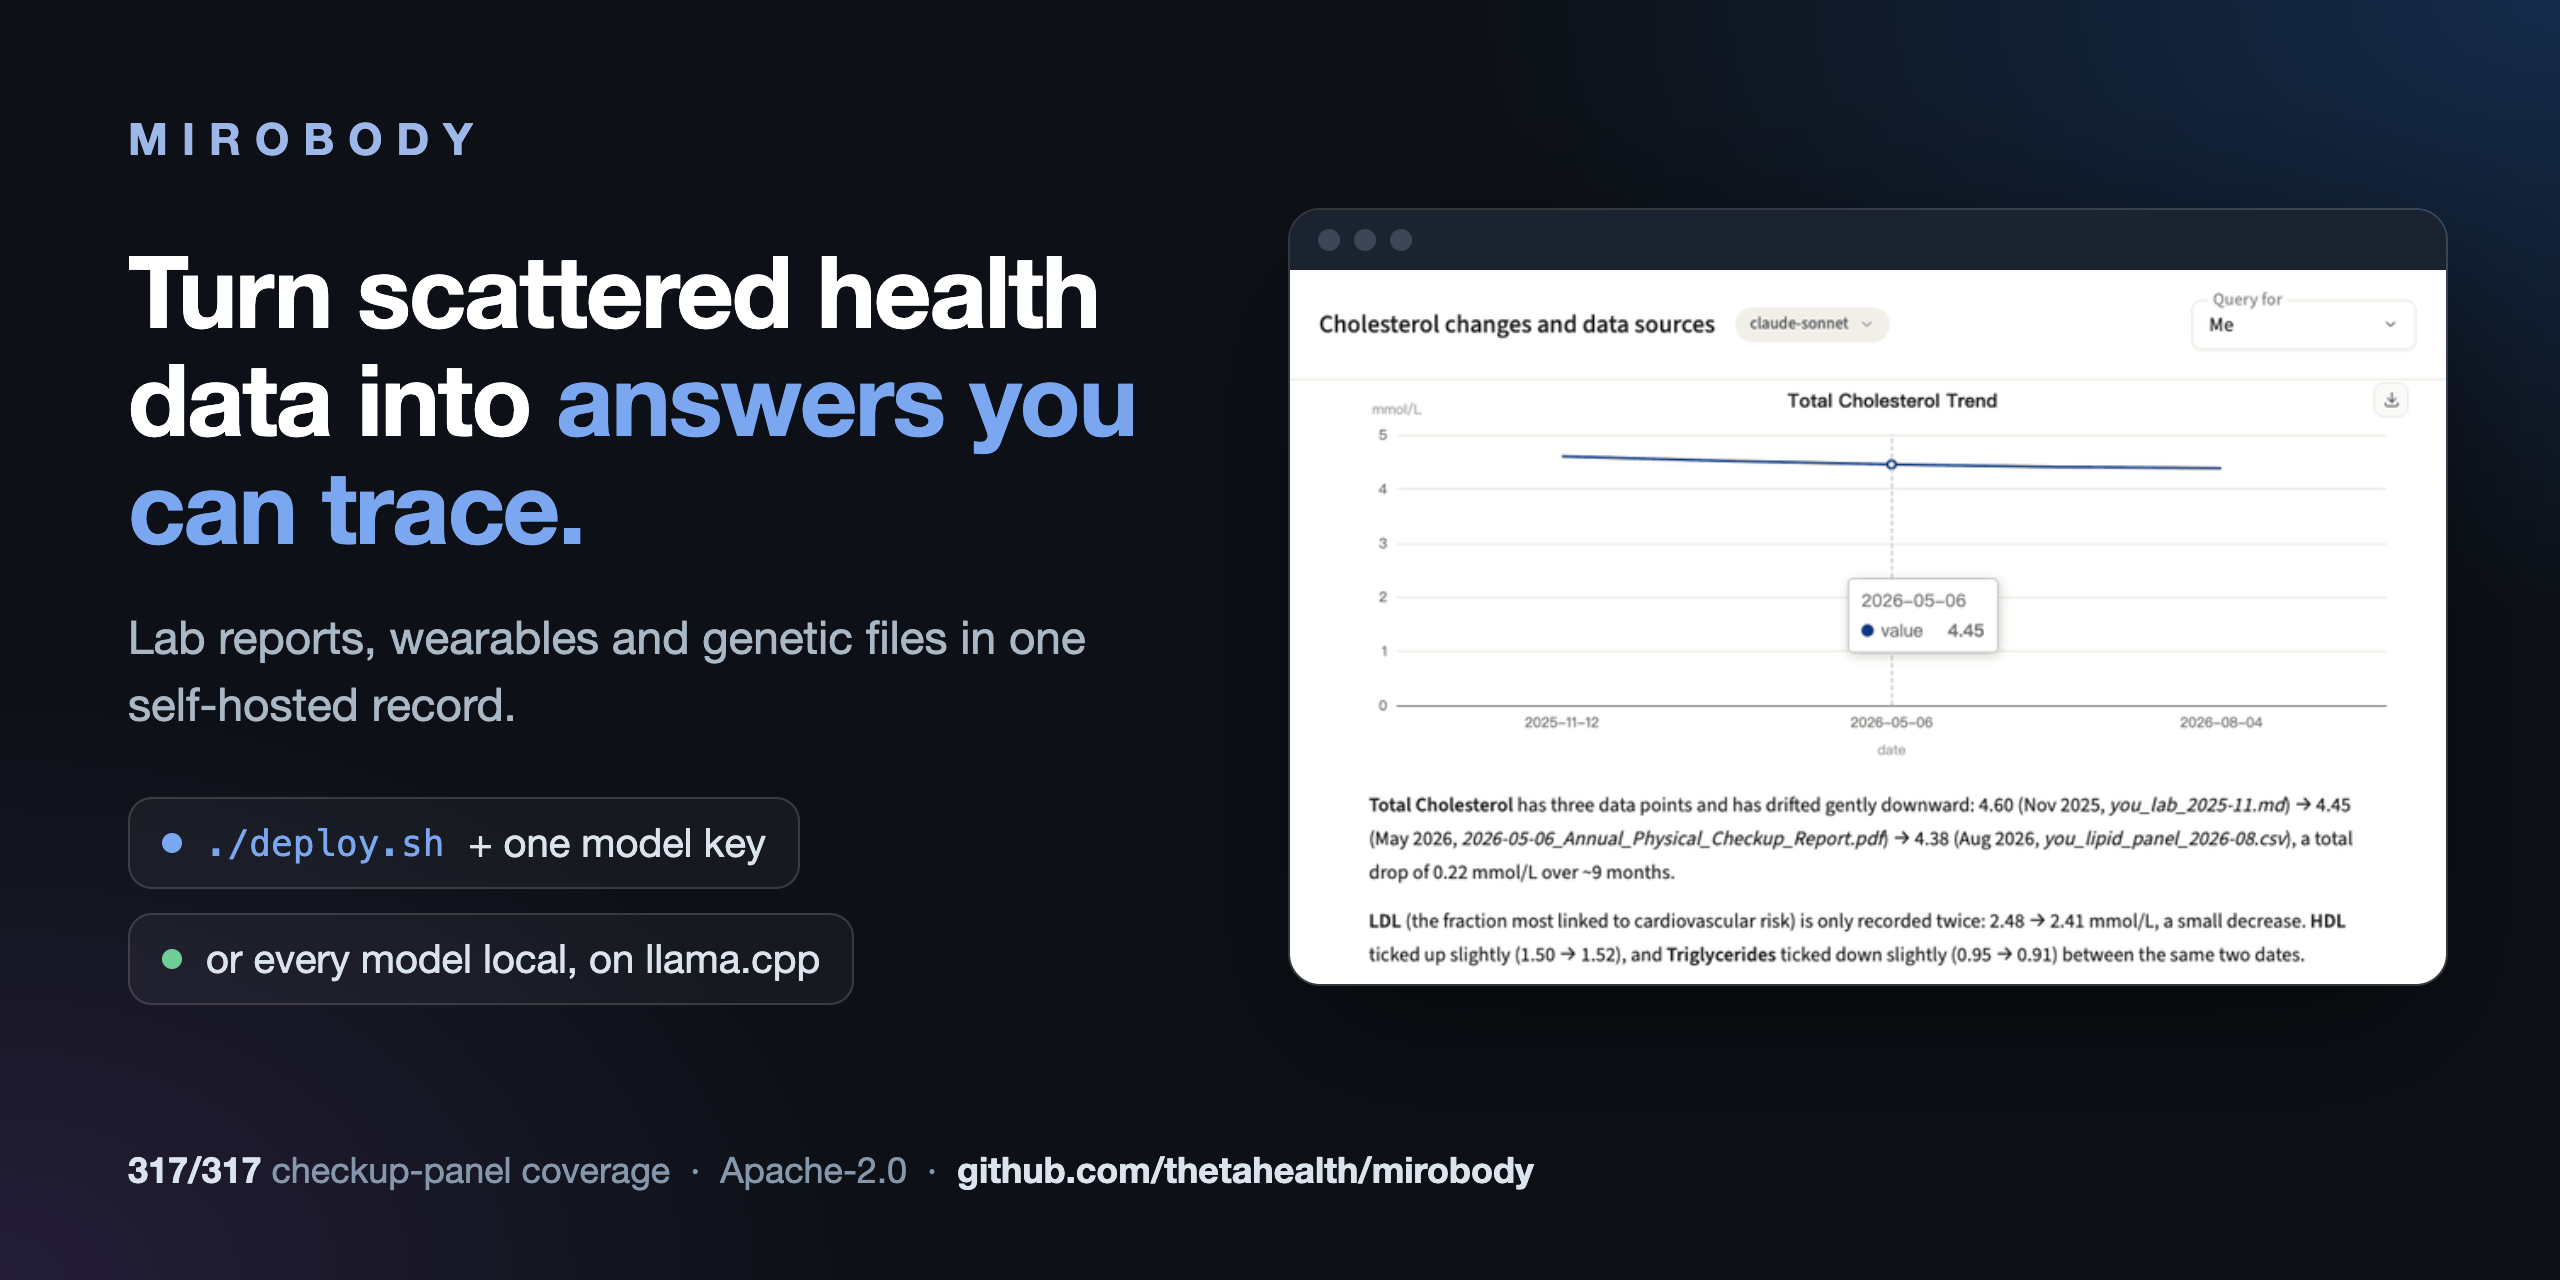
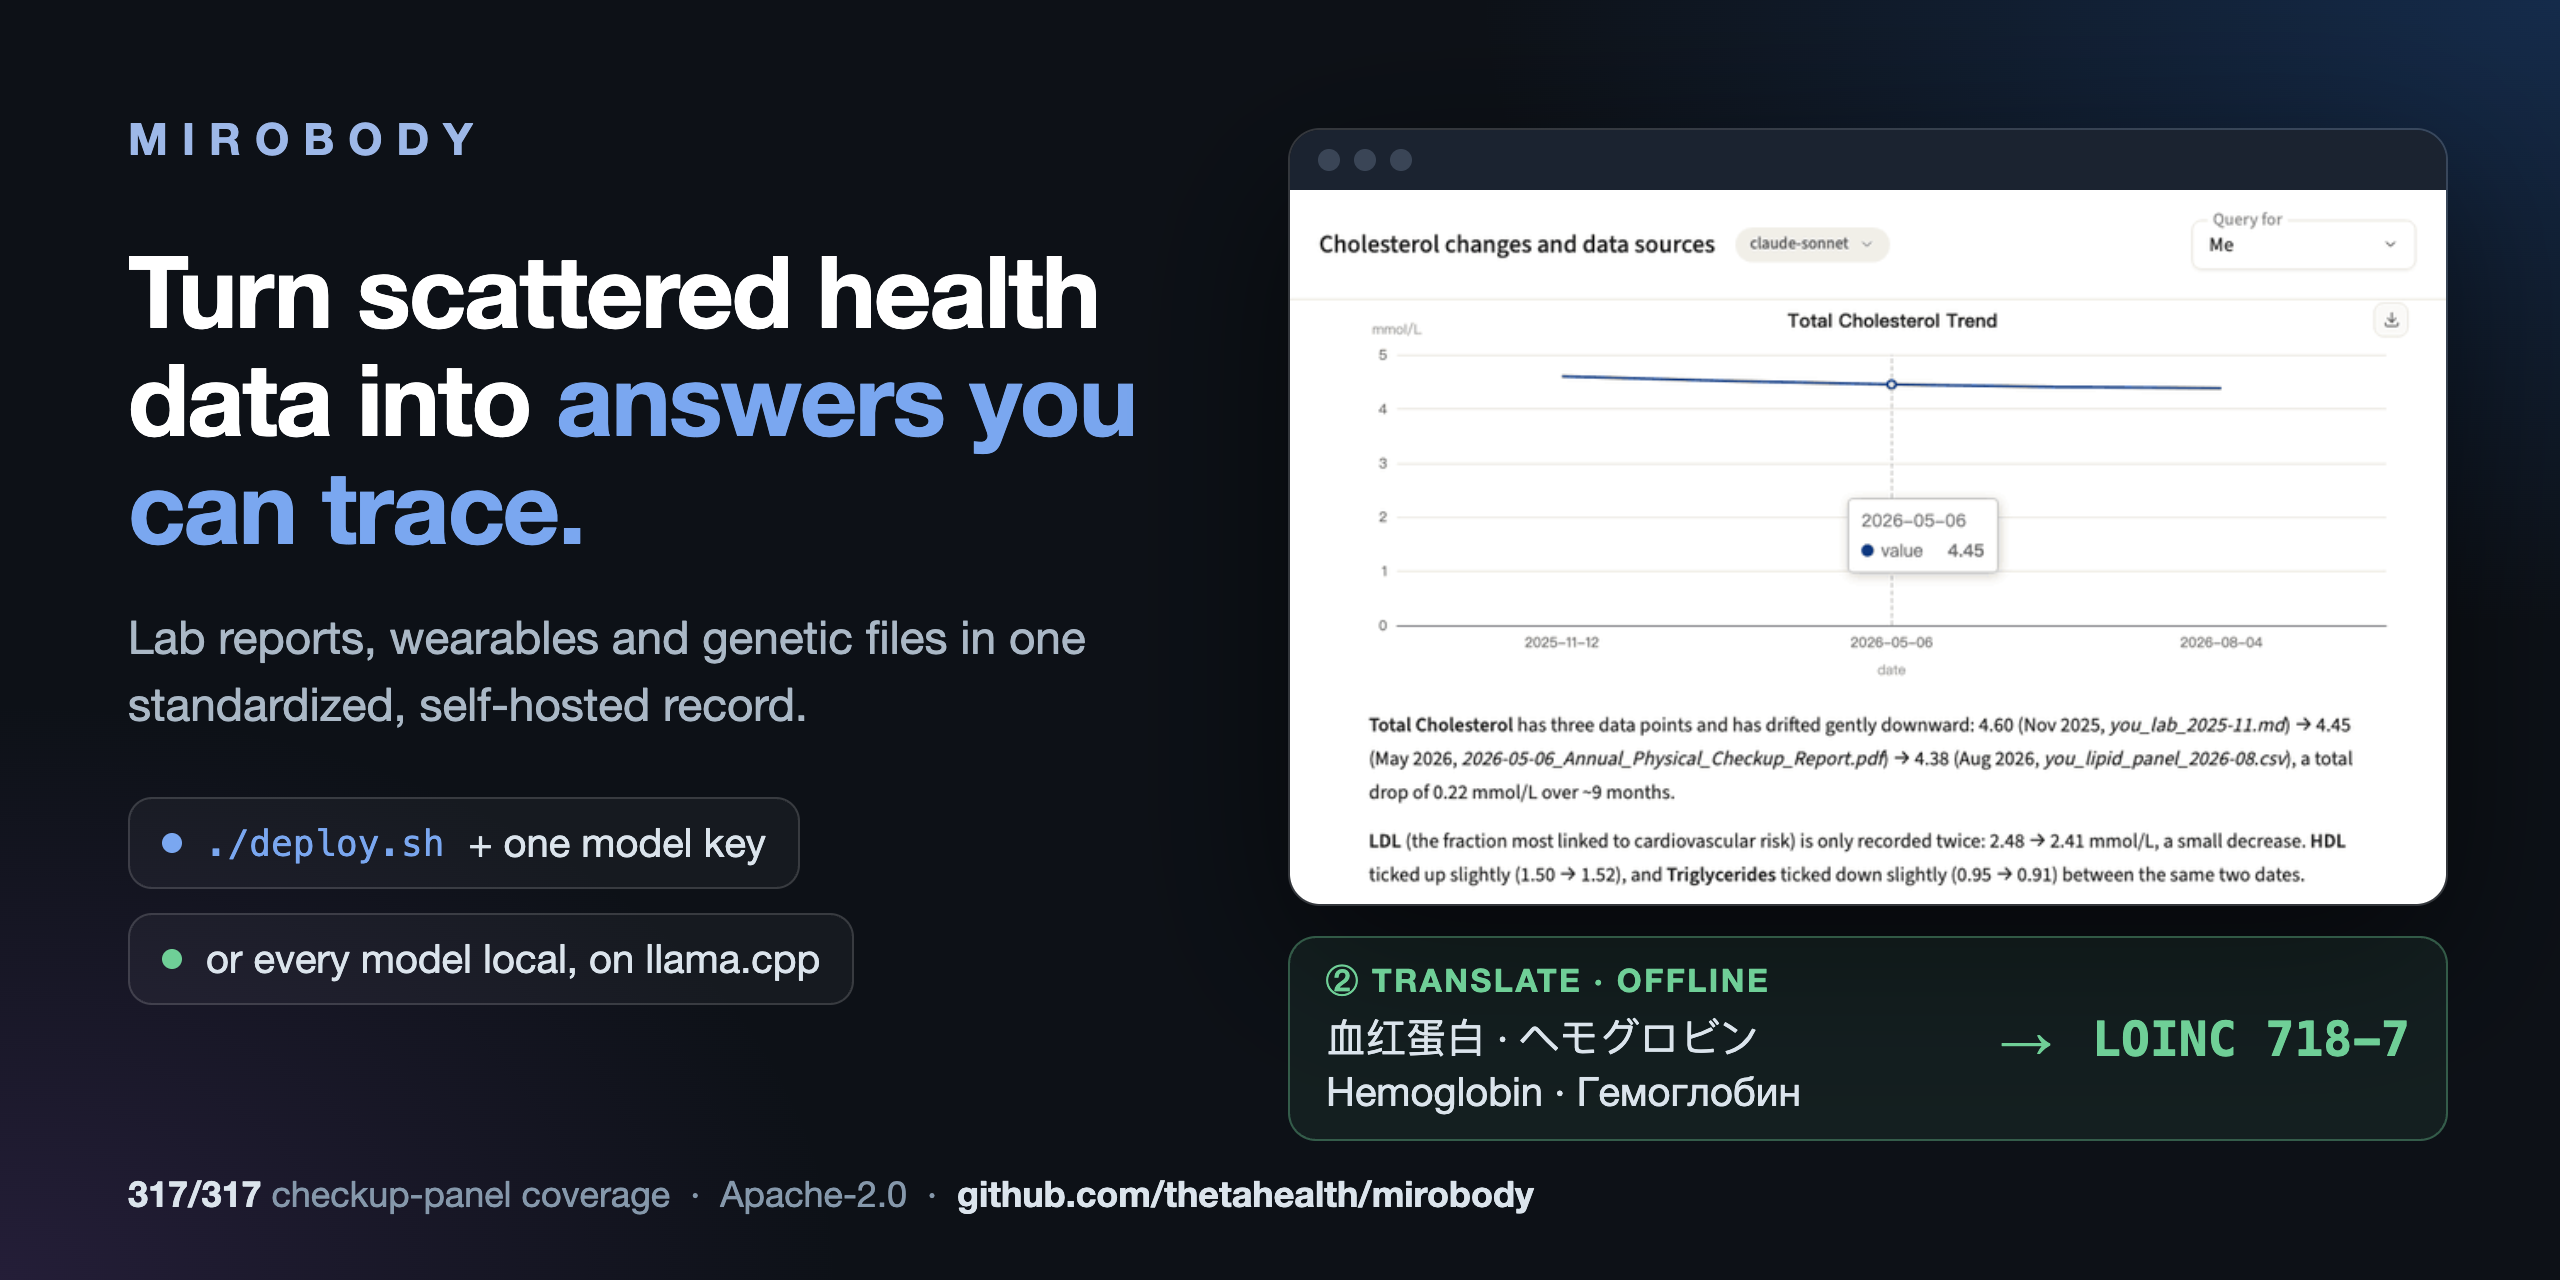
docs: the social card shows ② Translate
The card said where the record lives but not what makes it comparable.
The subline now says standardized, and a strip under the screenshot
shows four spellings (zh, ja, en, ru) that all resolve to LOINC 718-7.

diff --git a/docs/images/social-preview.html b/docs/images/social-preview.html
@@ -5,7 +5,8 @@
 
      It carries the README's own pitch: the headline, the two ways to run it,
      and a real frame of the product (frame 124 of docs/images/ask-own-demo.gif,
-     cropped to the main panel and saved as social-preview-frame.png). 317/317 is the README's gated score;
+     cropped to the main panel and saved as social-preview-frame.png). The four spellings in the
+     Translate strip all resolve to 718-7 (`mirobody resolve`). 317/317 is the README's gated score;
      nothing here is gated, so re-read it off the README before re-rendering. -->
 <html><head><meta charset="utf-8"><title>Mirobody social preview</title>
 <style>
@@ -26,19 +27,25 @@ h1 em{font-style:normal;color:#7aa7f0}
   background:rgba(255,255,255,.04);width:max-content}
 .chip code{font-family:"SF Mono",Menlo,Consolas,monospace;font-size:18px;color:#7aa7f0}
 .dot{width:10px;height:10px;border-radius:50%}
-.foot{position:absolute;left:64px;bottom:44px;font-size:18px;color:#8598ab}
+.foot{position:absolute;left:64px;bottom:32px;font-size:18px;color:#8598ab}
 .foot b{color:#dbe4ec;font-weight:600}
-.shot{position:absolute;right:56px;top:104px;width:580px;border-radius:16px;overflow:hidden;
+.shot{position:absolute;right:56px;top:64px;width:580px;border-radius:16px;overflow:hidden;
   border:1px solid rgba(255,255,255,.16);box-shadow:0 30px 80px rgba(0,0,0,.55)}
 .shot .bar{height:30px;background:#1b2330;display:flex;align-items:center;gap:7px;padding-left:14px}
 .shot .bar i{width:11px;height:11px;border-radius:50%;background:#3a4556;display:block}
 .shot img{display:block;width:100%}
+.tr{position:absolute;right:56px;top:468px;width:580px;display:flex;align-items:center;gap:20px;
+  padding:10px 18px;border-radius:14px;border:1px solid rgba(111,207,151,.35);background:rgba(111,207,151,.07)}
+.tr .lab{font-size:16px;font-weight:700;letter-spacing:.08em;color:#6fcf97;text-transform:uppercase}
+.tr .names{font-size:20px;line-height:1.35;color:#dbe4ec;margin-top:4px}
+.tr .arrow{font-size:26px;color:#6fcf97}
+.tr .code{font-family:"SF Mono",Menlo,Consolas,monospace;font-size:24px;font-weight:700;color:#6fcf97;white-space:nowrap}
 </style></head><body><div class="page">
   <div class="mark">MIROBODY</div>
 
   <div class="left">
     <h1>Turn scattered health data into <em>answers you can trace.</em></h1>
-    <div class="sub">Lab reports, wearables and genetic files in one <span style="white-space:nowrap">self-hosted</span> record.</div>
+    <div class="sub">Lab reports, wearables and genetic files in one standardized, <span style="white-space:nowrap">self-hosted</span> record.</div>
     <div class="chips">
       <div class="chip"><span class="dot" style="background:#7aa7f0"></span><code>./deploy.sh</code> + one model key</div>
       <div class="chip"><span class="dot" style="background:#6fcf97"></span>or every model local, on llama.cpp</div>
@@ -46,6 +53,12 @@ h1 em{font-style:normal;color:#7aa7f0}
   </div>
 
   <div class="shot"><div class="bar"><i></i><i></i><i></i></div><img src="social-preview-frame.png" alt=""></div>
+
+  <div class="tr">
+    <div style="flex:1"><div class="lab">② Translate · offline</div>
+      <div class="names">血红蛋白 · ヘモグロビン<br>Hemoglobin · Гемоглобин</div></div>
+    <div class="arrow">→</div><div class="code">LOINC 718-7</div>
+  </div>
 
   <div class="foot"><b>317/317</b> checkup-panel coverage &nbsp;·&nbsp; Apache-2.0 &nbsp;·&nbsp; <b>github.com/thetahealth/mirobody</b></div>
 </div></body></html>
